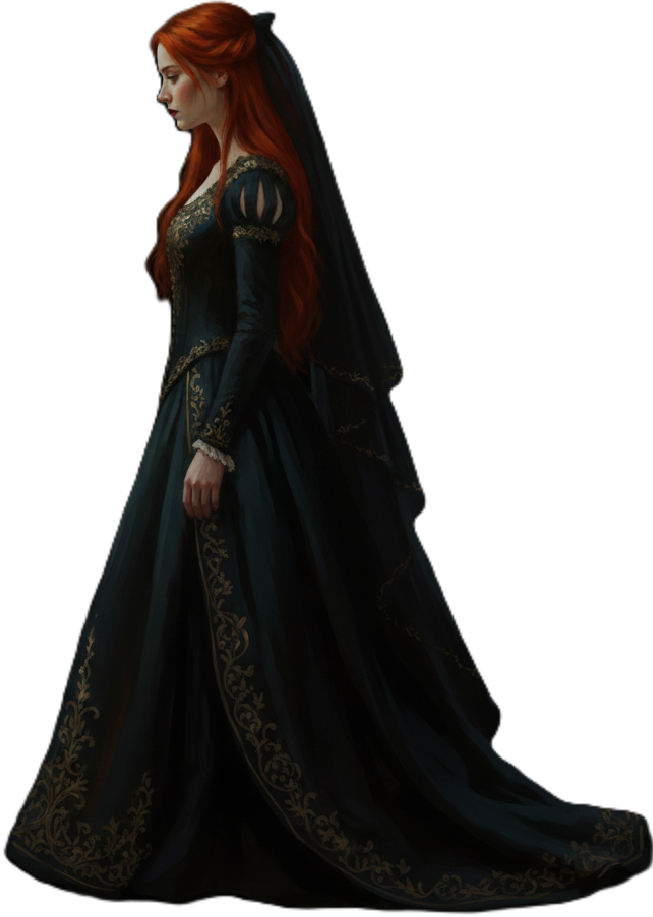
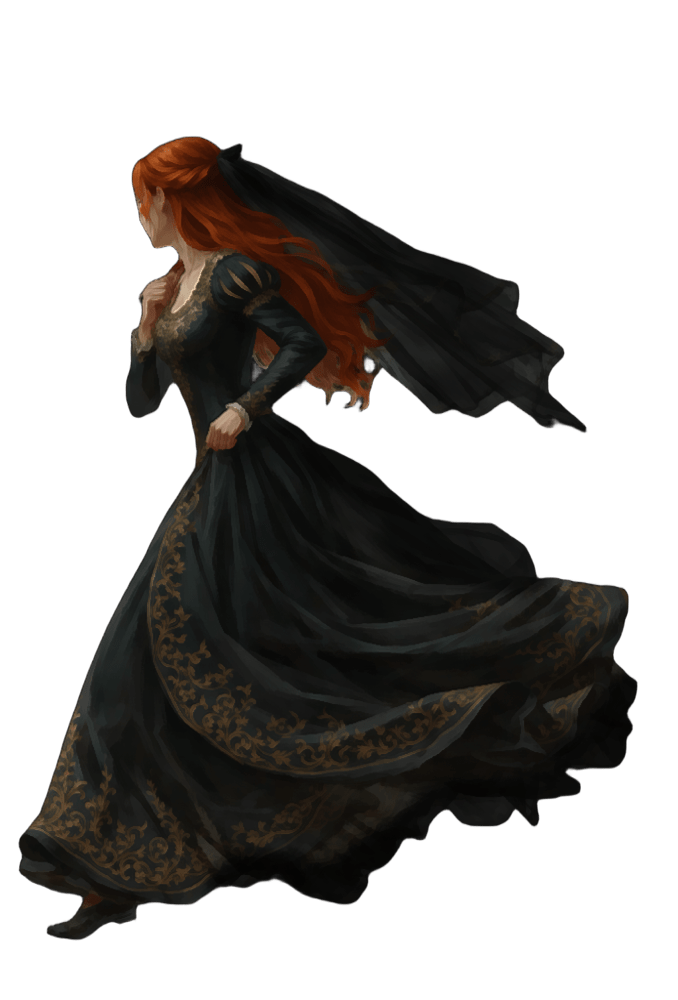
Alterando as imagens

diff --git a/src/app/games/shared/utils/style.utils.ts b/src/app/games/shared/utils/style.utils.ts
@@ -1,4 +1,5 @@
 import { Posicao } from '../models/posicao.model';
+import { CommonConstants } from './constants/common.constants';
 import { WarhammerConstants } from './constants/warhammer.constants';
 import { PersonagemId } from './types/warhammer.types';
 
@@ -17,13 +18,12 @@ export class StyleUtils {
         styles[id] = this.aplicarPixel(WarhammerConstants.POSICOES.pixel[id], vw, vh, tipoLayout);
       }
     });
-
     return styles;
   }
 
   private static getTipo(vh: number): 'flex' | 'intermediario' | 'menor' {
-    if (vh > WarhammerConstants.CONFIG.tela.max) return 'flex';
-    if (vh >= WarhammerConstants.CONFIG.tela.min) return 'intermediario';
+    if (vh > CommonConstants.CONFIG.tela.max) return 'flex';
+    if (vh >= CommonConstants.CONFIG.tela.min) return 'intermediario';
     return 'menor';
   }
 
@@ -42,11 +42,11 @@ export class StyleUtils {
     vh: number,
     tipo: 'flex' | 'intermediario' | 'menor',
   ) {
-    const escalaW = vw / WarhammerConstants.CONFIG.tela.larguraBase;
+    const escalaW = vw / CommonConstants.CONFIG.tela.larguraBase;
     let top = p.top!;
     let left = p.left! * escalaW;
-    if (tipo === 'intermediario') top += vh - WarhammerConstants.CONFIG.tela.min;
-    if (tipo === 'menor') top *= vh / WarhammerConstants.CONFIG.tela.min;
+    if (tipo === 'intermediario') top += vh - CommonConstants.CONFIG.tela.min;
+    if (tipo === 'menor') top *= vh / CommonConstants.CONFIG.tela.min;
     return {
       position: 'absolute',
       top: top + 'px',

diff --git a/src/app/games/world-of-darkness/world-of-darkness.ts b/src/app/games/world-of-darkness/world-of-darkness.ts
@@ -12,25 +12,4 @@ import { WorldOfDarknessEnum } from '../shared/utils/enums/world-of-darkness.enu
 export class WorldOfDarkness {
   public personagens: PersonagemId[] = WorldOfDarknessConstants.THUMBS as PersonagemId[];
   public personagensEnum = WorldOfDarknessEnum;
-  heleneHover = false;
-  heleneFading = false;
-
-  public getHover(personagem: string, leaving: boolean): boolean {
-    if (leaving) {
-      return (this.heleneHover = false);
-    }
-    return (this.heleneHover = personagem === this.personagensEnum.HELENE_VEU);
-  }
-
-  public getImagem(personagem: string): string {
-    if (
-      personagem === this.personagensEnum.HELENE_VEU ||
-      personagem === this.personagensEnum.HELENE
-    ) {
-      return this.heleneHover
-        ? `assets/vampire/personagens/${this.personagensEnum.HELENE}.png`
-        : `assets/vampire/personagens/${this.personagensEnum.HELENE_VEU}.png`;
-    }
-    return `assets/vampire/personagens/${personagem}.png`;
-  }
 }

diff --git a/src/app/games/world-of-darkness/world-of-darkness.css b/src/app/games/world-of-darkness/world-of-darkness.css
@@ -7,12 +7,13 @@ main {
 .fila-personagens {
   max-width: 80%;
   display: flex;
-  justify-content: space-between;
   position: relative;
   top: 25%;
 }
 .personagem-img {
+  z-index: 5;
   cursor: pointer;
+  position: absolute;
   height: 55vh;
   width: auto;
   transition:
@@ -23,8 +24,34 @@ main {
   transform: scale(1.1);
 }
 #celine {
-  opacity: 0.1;
+  opacity: 0.4;
+  left: 8%;
 }
 #celine:hover {
   opacity: 1;
+}
+#helene {
+  z-index: 6;
+  left: 16%;
+}
+#hernan {
+  left: 34%;
+}
+#jean {
+  z-index: 4;
+  left: 48%;
+}
+#baldwin {
+  left: 76%;
+}
+
+#elias {
+  z-index: 6;
+  left: 64%;
+}
+#khaled {
+  left: 92%;
+}
+#philipe {
+  left: 100%;
 }

diff --git a/src/app/games/shared/utils/constants/world-of-darkness.constants.ts b/src/app/games/shared/utils/constants/world-of-darkness.constants.ts
@@ -3,12 +3,12 @@ import { WorldOfDarknessEnum } from '../enums/world-of-darkness.enum';
 export class WorldOfDarknessConstants {
   static readonly THUMBS: string[] = [
     WorldOfDarknessEnum.CELINE,
+    WorldOfDarknessEnum.HELENE,
+    WorldOfDarknessEnum.BALDWIN,
     WorldOfDarknessEnum.JEAN,
-    WorldOfDarknessEnum.HELENE_VEU,
     WorldOfDarknessEnum.HERNAN,
     WorldOfDarknessEnum.KHALED,
     WorldOfDarknessEnum.ELIAS,
-    WorldOfDarknessEnum.BALDWIN,
     WorldOfDarknessEnum.PHILIPE,
   ];
 }

diff --git a/src/app/games/shared/utils/constants/warhammer.constants.ts b/src/app/games/shared/utils/constants/warhammer.constants.ts
@@ -2,17 +2,6 @@ import { Posicao } from '../../models/posicao.model';
 import { PersonagemId } from '../types/warhammer.types';
 
 export class WarhammerConstants {
-  static readonly CONFIG = {
-    tela: {
-      min: 600,
-      max: 1080,
-      larguraBase: 1366,
-    },
-    animacao: {
-      duracao: 350,
-    },
-  };
-
   static readonly THUMBS: string[] = [
     'konrad',
     'grodnar',

diff --git a/src/app/games/world-of-darkness/world-of-darkness.html b/src/app/games/world-of-darkness/world-of-darkness.html
@@ -3,13 +3,9 @@
   @for (personagem of personagens; track personagem) {
     <img
       [id]="personagem"
-      [src]="getImagem(personagem)"
+      [src]="`assets/vampire/personagens/${personagem}.png`"
       class="personagem-img"
-      (mouseenter)="getHover(personagem, false)"
-      (mouseleave)="getHover(personagem, true)"
     />
   } @empty {}
 </div>
-
-
 </main>

diff --git a/src/app/app.html b/src/app/app.html
@@ -1,6 +1,6 @@
 <developer-button></developer-button>
 @if (sistemaAtual === sistemas.WFRP4E){
-<warhammer-home></warhammer-home>
-} @else if(sistemaAtual === sistemas.WORLD_OF_DARKNESS) {
 <world-of-darkness-home></world-of-darkness-home>
+} @else if(sistemaAtual === sistemas.WORLD_OF_DARKNESS) {
+<warhammer-home></warhammer-home>
 }

diff --git a/src/app/games/shared/utils/enums/world-of-darkness.enum.ts b/src/app/games/shared/utils/enums/world-of-darkness.enum.ts
@@ -1,11 +1,10 @@
 export enum WorldOfDarknessEnum {
   CELINE=   'celine',
-  JEAN =  'jean',
   HELENE =  'helene',
-  HELENE_VEU =  'heleneveu',
+  BALDWIN =  'baldwin',
+  JEAN =  'jean',
   HERNAN =  'hernan',
   KHALED =  'khaled',
   ELIAS =  'elias',
-  BALDWIN =  'baldwin',
   PHILIPE =  'philipe',
 }

diff --git a/src/app/games/shared/utils/constants/common.constants.ts b/src/app/games/shared/utils/constants/common.constants.ts
@@ -1,0 +1,12 @@
+export class CommonConstants {
+  static readonly CONFIG = {
+    tela: {
+      min: 600,
+      max: 1080,
+      larguraBase: 1366,
+    },
+    animacao: {
+      duracao: 350,
+    },
+  };
+}
